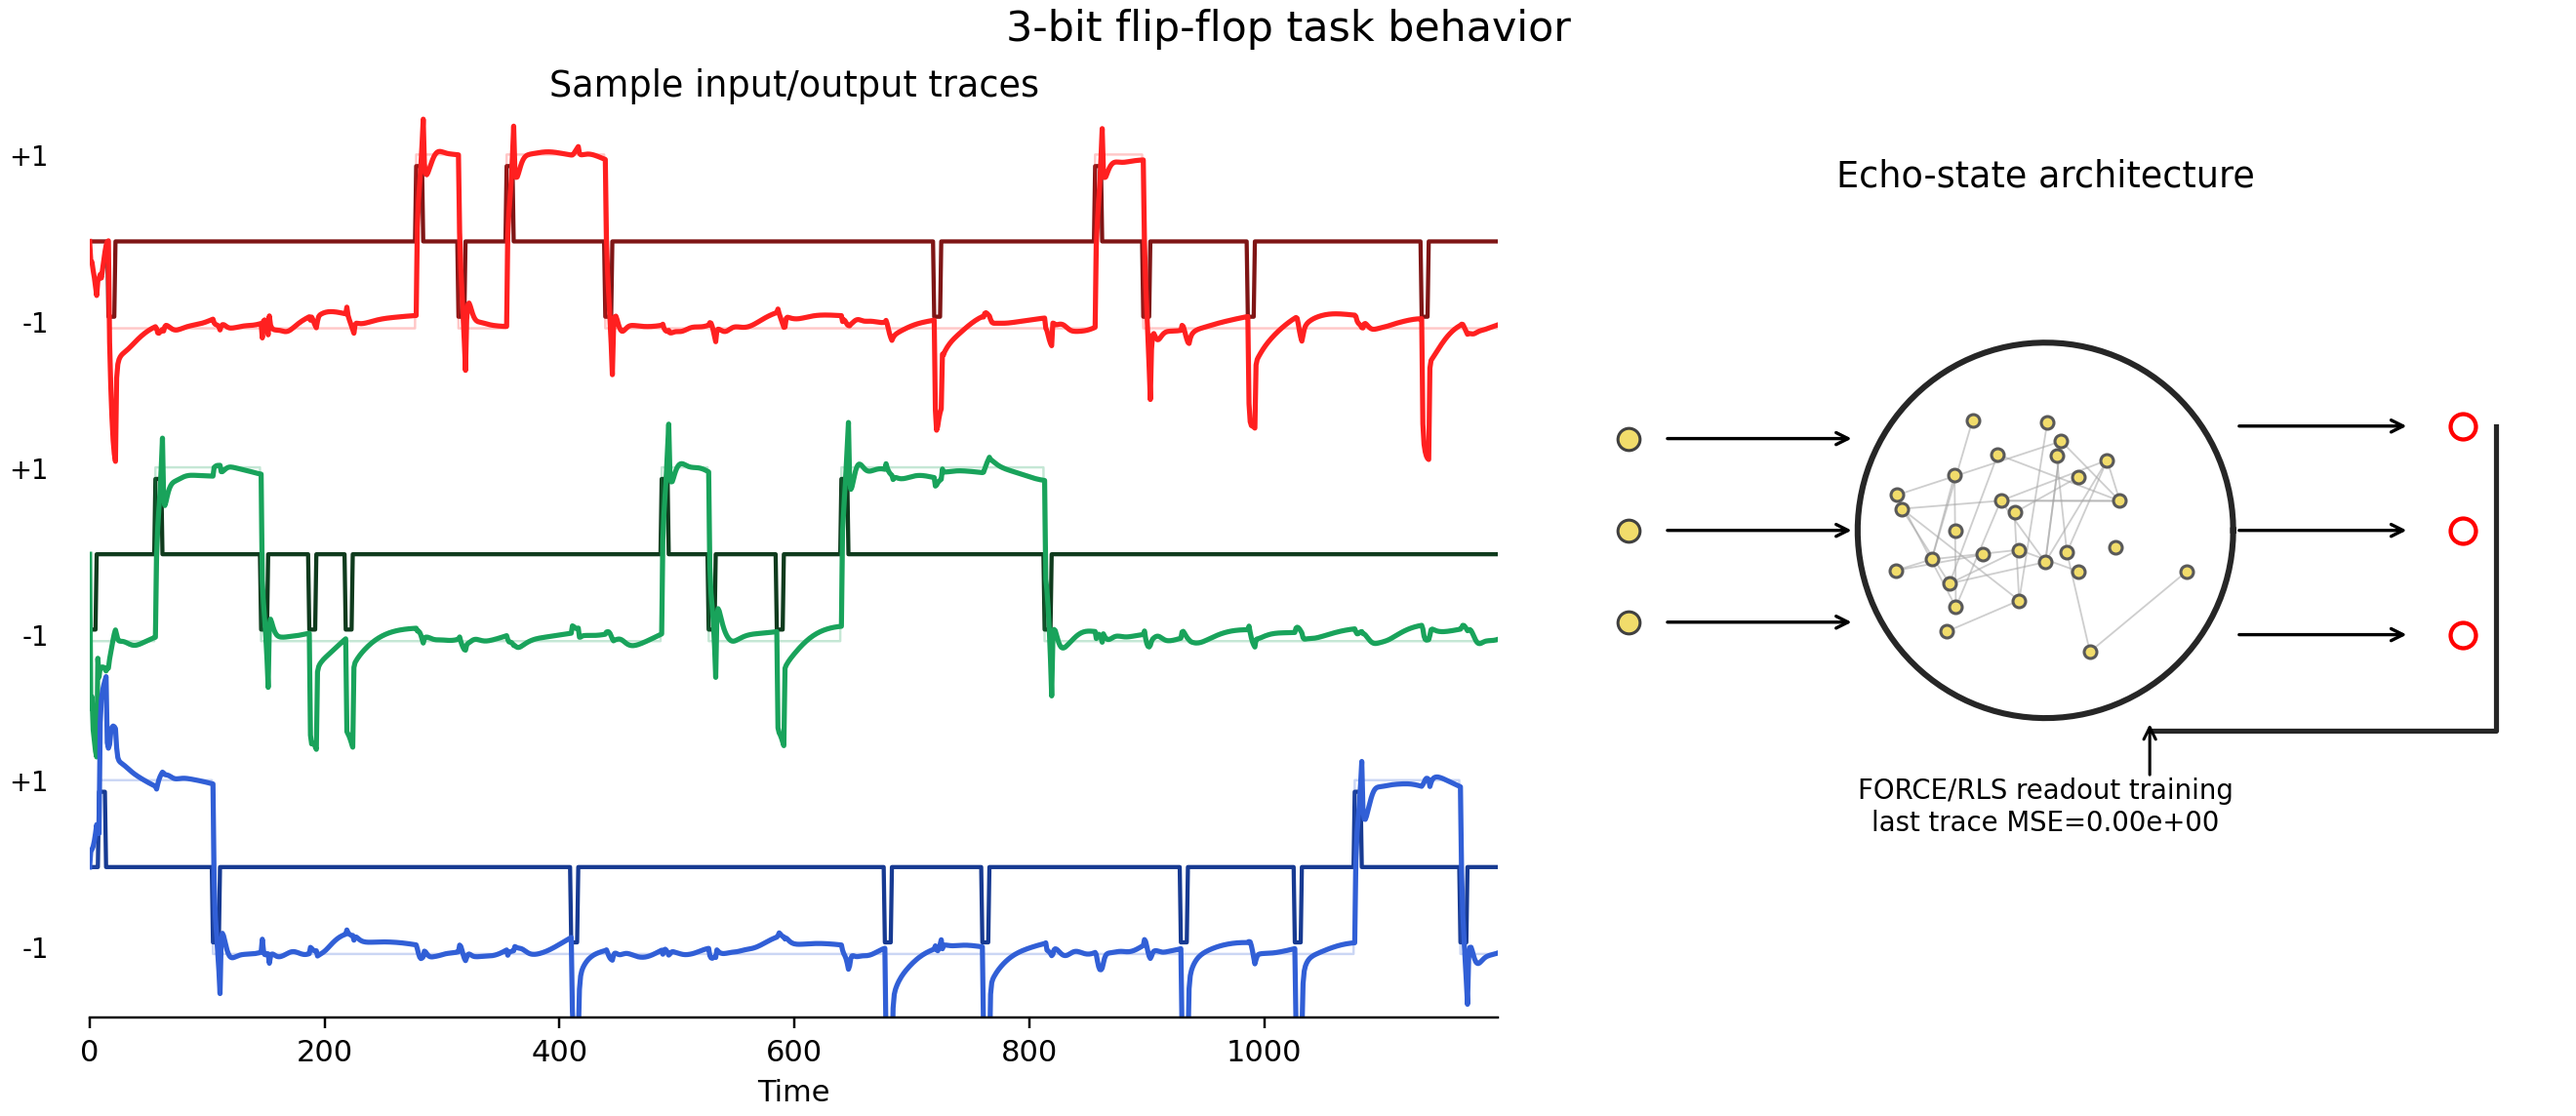
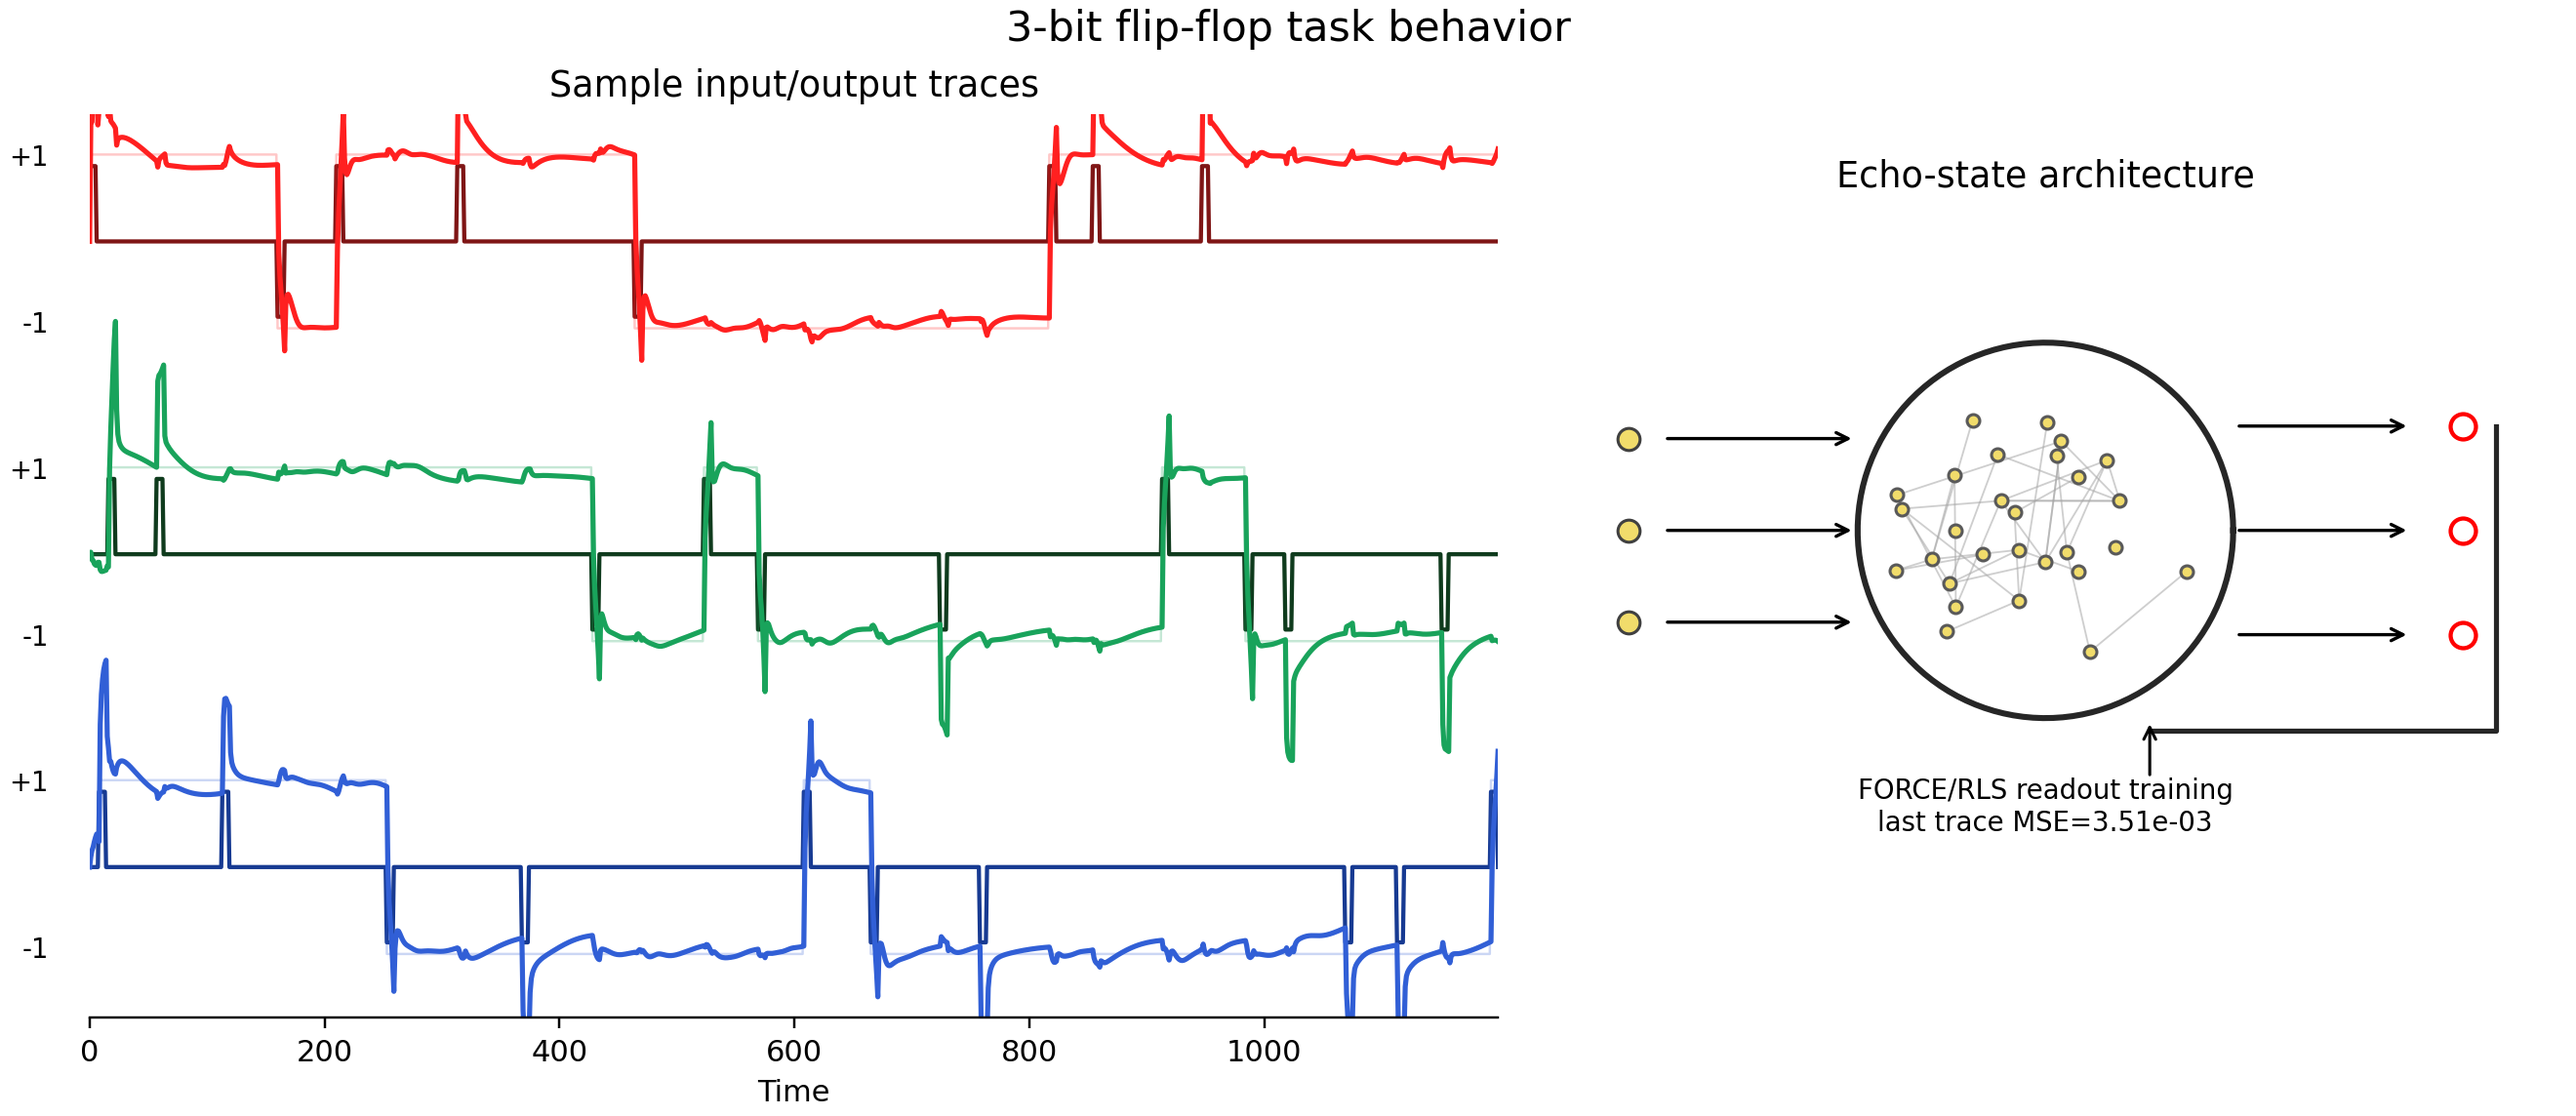
some fixes

Changed region(s): [[0.0311, 0.0918, 0.5902, 0.9178], [0.7144, 0.7037, 0.8697, 0.7649], [0.4348, 0.3977, 0.497, 0.4895]]

diff --git a/flipflop_demo.py b/flipflop_demo.py
@@ -36,6 +36,8 @@ class Config:
     dt: float = 0.1
     train_steps: int = 50000
     test_steps: int = 1200
+    train_task: str = "mixed"
+    structured_fraction: float = 0.7
     pulse_width: int = 6
     min_interval: int = 22
     max_interval: int = 55
@@ -239,6 +241,43 @@ def make_balanced_transition_task(
     return torch.from_numpy(np.stack(u_rows[:steps])), torch.from_numpy(
         np.stack(y_rows[:steps])
     )
+
+
+def make_training_task(cfg: Config, rng: np.random.Generator) -> tuple[torch.Tensor, torch.Tensor]:
+    if cfg.train_task == "random":
+        return make_pulse_task(
+            cfg.train_steps, cfg.pulse_width, cfg.min_interval, cfg.max_interval, rng
+        )
+    if cfg.train_task == "structured":
+        return make_balanced_transition_task(
+            cfg.train_steps, cfg.pulse_width, cfg.min_interval, cfg.max_interval, rng
+        )
+    if cfg.train_task == "mixed":
+        structured_steps = int(round(cfg.train_steps * cfg.structured_fraction))
+        structured_steps = min(max(structured_steps, 0), cfg.train_steps)
+        random_steps = cfg.train_steps - structured_steps
+        parts_u: list[torch.Tensor] = []
+        parts_y: list[torch.Tensor] = []
+        if structured_steps:
+            u_s, y_s = make_balanced_transition_task(
+                structured_steps, cfg.pulse_width, cfg.min_interval, cfg.max_interval, rng
+            )
+            parts_u.append(u_s)
+            parts_y.append(y_s)
+        if random_steps:
+            initial_state = parts_y[-1][-1].numpy() if parts_y else None
+            u_r, y_r = make_pulse_task(
+                random_steps,
+                cfg.pulse_width,
+                cfg.min_interval,
+                cfg.max_interval,
+                rng,
+                initial_state,
+            )
+            parts_u.append(u_r)
+            parts_y.append(y_r)
+        return torch.cat(parts_u, dim=0), torch.cat(parts_y, dim=0)
+    raise ValueError("train_task must be one of: random, structured, mixed")
 
 
 def init_network(cfg: Config) -> dict[str, torch.Tensor]:
@@ -1251,9 +1290,7 @@ def run(cfg: Config) -> None:
 
     rng = np.random.default_rng(cfg.seed)
     net = init_network(cfg)
-    u_train, y_train = make_balanced_transition_task(
-        cfg.train_steps, cfg.pulse_width, cfg.min_interval, cfg.max_interval, rng
-    )
+    u_train, y_train = make_training_task(cfg, rng)
     losses = train_force(cfg, net, u_train, y_train)
 
     u_test, y_test = make_pulse_task(

diff --git a/run_flipflop_demo.py b/run_flipflop_demo.py
@@ -9,8 +9,9 @@ from flipflop_demo import make_config, redraw_state_space_from_plot_data, run
 RUN_CONFIG = make_config(preset="full", model_dir="model", figure_dir="figure")
 
 # For a quick end-to-end check, change the first argument above to
-# ``preset="test"`` and clear ``REDRAW_FROM_PLOT_DATA``.
-REDRAW_FROM_PLOT_DATA = "model/state_space_plot_data.pt"
+# ``preset="test"`` and set ``REDRAW_FROM_PLOT_DATA`` to False.
+REDRAW_FROM_PLOT_DATA = True
+PLOT_DATA = "model/state_space_plot_data.pt"
 FIXED_POINTS_ELEV = 18.0
 FIXED_POINTS_AZIM = -62.0
 
@@ -18,7 +19,7 @@ FIXED_POINTS_AZIM = -62.0
 def main() -> None:
     if REDRAW_FROM_PLOT_DATA:
         redraw_state_space_from_plot_data(
-            Path(REDRAW_FROM_PLOT_DATA),
+            Path(PLOT_DATA),
             Path(RUN_CONFIG.figure_dir),
             fixed_points_elev=FIXED_POINTS_ELEV,
             fixed_points_azim=FIXED_POINTS_AZIM,
